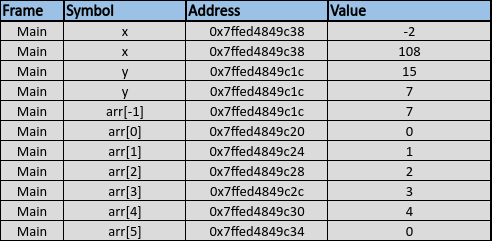
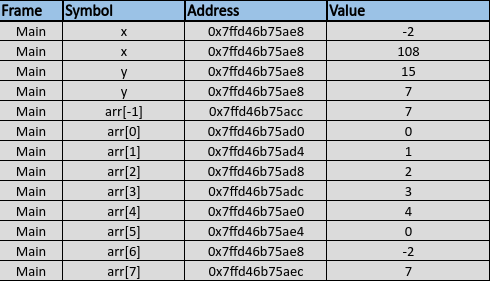
done

diff --git a/Labs/Lab3/wrongindex.c b/Labs/Lab3/wrongindex.c
@@ -20,7 +20,7 @@ int main(int argc, char * * argv)
     printf("& of arr[%d] %d\t%p\n", -1,arr[-1], &arr[-1]);
 
     //all valid
-    for(int i = 0; i < sizeof(arr)/sizeof(arr[0]) + 1; i++){
+    for(int i = 0; i < sizeof(arr)/sizeof(arr[0]) + 3; i++){
 
         printf("& of arr[%d]\t%d\t%p\n", i,arr[i], &arr[i]);
 

diff --git a/Labs/Lab3/README.md b/Labs/Lab3/README.md
@@ -224,7 +224,7 @@ int main(int argc, char * * argv)
     printf("& of arr[%d] %d\t%p\n", -1,arr[-1], &arr[-1]);
 
     //all valid
-    for(int i = 0; i < sizeof(arr)/sizeof(arr[0]) + 3; i++){
+    for(int i = 0; i < sizeof(arr)/sizeof(arr[0]) + 1; i++){
 
         printf("& of arr[%d]\t%d\t%p\n", i,arr[i], &arr[i]);
 
@@ -285,17 +285,21 @@ Similarly, y is changed because of this assignment:
 #### My Results
 
 ```
-& of x = 0x7ffed4849c38,
-& of y = 0x7ffed4849c1c
-& of arr[-1] 	15 		0x7ffed4849c1c
-& of arr[0]     0       0x7ffed4849c20
-& of arr[1]     1       0x7ffed4849c24
-& of arr[2]     2       0x7ffed4849c28
-& of arr[3]     3       0x7ffed4849c2c
-& of arr[4]     4       0x7ffed4849c30
-& of arr[5]     0       0x7ffed4849c34
+[q3d5k@gc112m38 ~]$ cd "/home1/ugrads/q3d5k/Cs2263/Labs/Lab3/" && gcc wrongindex.c -o wrongindex && "/home1/ugrads/q3d5k/Cs2263/Labs/Lab3/"wrongindex
+& of x = 0x7ffd46b75ae8,
+& of y = 0x7ffd46b75acc
+& of arr[-1] 15 0x7ffd46b75acc
+& of arr[0]     0       0x7ffd46b75ad0
+& of arr[1]     1       0x7ffd46b75ad4
+& of arr[2]     2       0x7ffd46b75ad8
+& of arr[3]     3       0x7ffd46b75adc
+& of arr[4]     4       0x7ffd46b75ae0
+& of arr[5]     0       0x7ffd46b75ae4
+& of arr[6]     -2      0x7ffd46b75ae8
+& of arr[7]     7       0x7ffd46b75aec
 x = -2, y = 15
 x = -2, y = 7
 x = 108, y = 7
 x = 108, y = 7
+[q3d5k@gc112m38 Lab3]$ 
 ```
